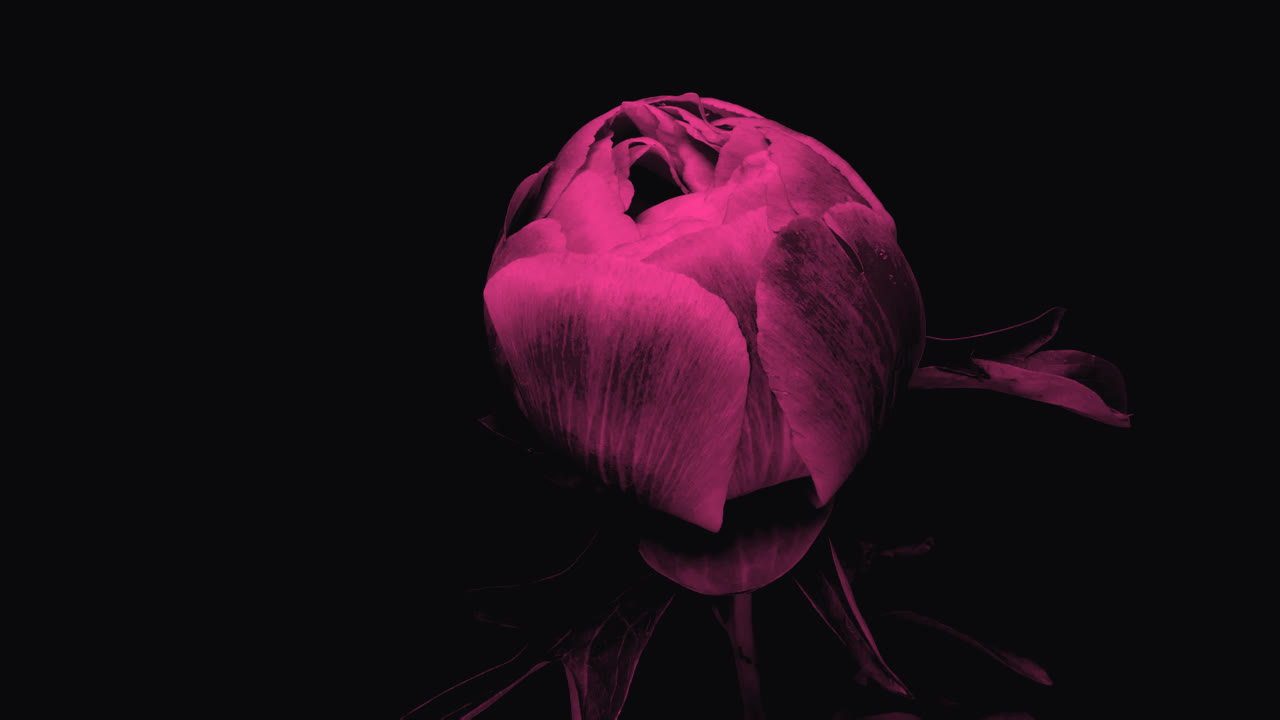
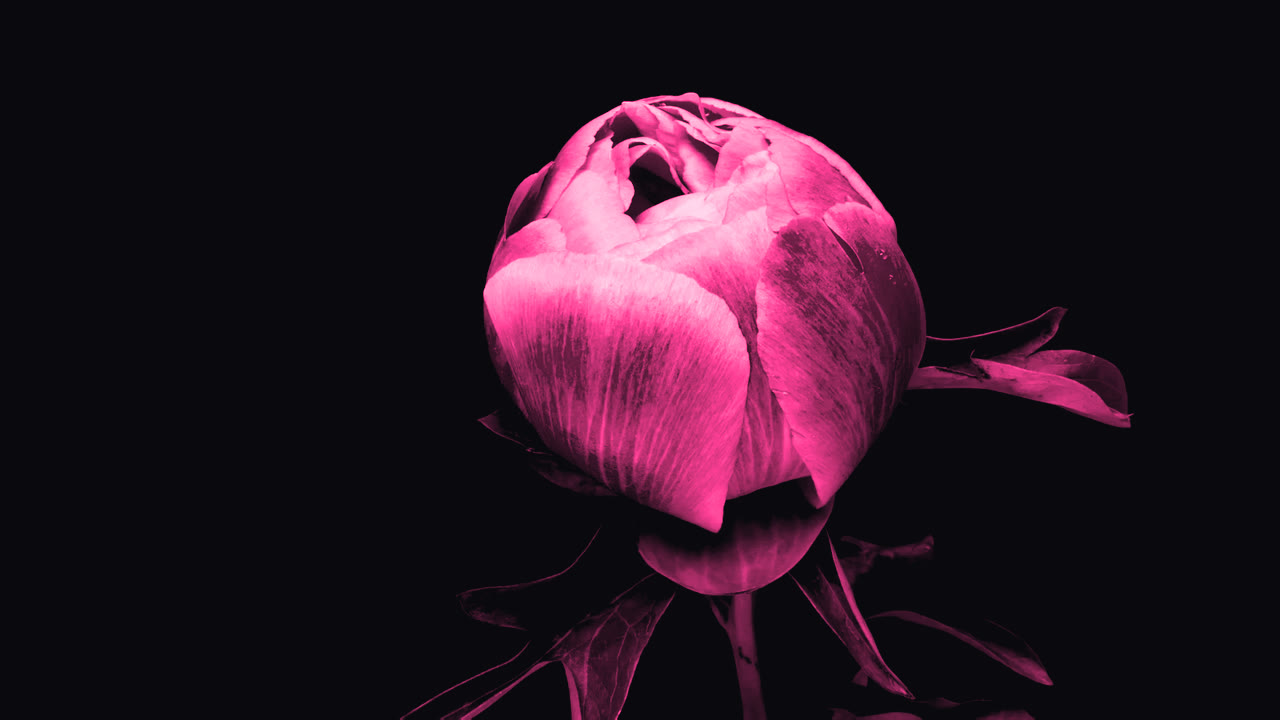
Brighten hero flower video with a sunlit highlight
Re-graded the background video with a brighter tri-tone (dark magenta
shadows through a near-white highlight) so the petals catch a soft,
sunlit glow instead of a flat duotone. Strengthened the text-side
overlay gradient slightly to keep the hero copy readable against the
brighter footage.

diff --git a/assets/css/style.css b/assets/css/style.css
@@ -144,11 +144,11 @@ section{ padding:96px 0; position:relative; }
 }
 .hero-media{ position:absolute; inset:0; z-index:0; }
 .hero-media video{
-  width:100%; height:100%; object-fit:cover; object-position:72% 50%; opacity:.5;
+  width:100%; height:100%; object-fit:cover; object-position:72% 50%; opacity:.55;
 }
 .hero-media::after{
   content:''; position:absolute; inset:0;
-  background:linear-gradient(100deg, rgba(8,8,10,.94) 0%, rgba(8,8,10,.72) 38%, rgba(8,8,10,.30) 68%, rgba(8,8,10,.55) 100%);
+  background:linear-gradient(100deg, rgba(8,8,10,.97) 0%, rgba(8,8,10,.82) 38%, rgba(8,8,10,.40) 68%, rgba(8,8,10,.6) 100%);
 }
 @media (prefers-reduced-motion:reduce){
   .hero-media video{ display:none; }